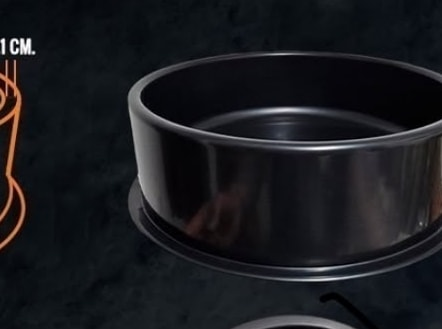
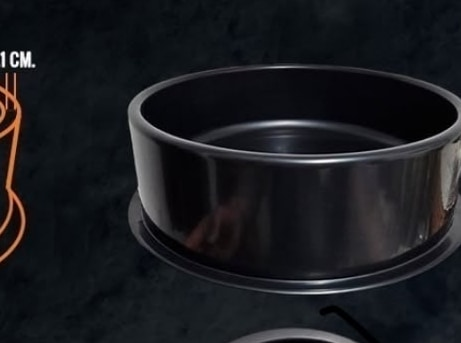
Fix medidas diagrams and video framing; advertise Andesmar nationwide shipping.
Widen ficha crops, show diagrams with object-contain, and stop clipping portrait videos. Update copy so examples are not San Luis-only.

diff --git a/src/components/tienda/MedidasMoldes.tsx b/src/components/tienda/MedidasMoldes.tsx
@@ -41,7 +41,8 @@ export function MedidasMoldes() {
         Medidas oficiales de cada molde y todas las bachas fotografiadas de ese
         modelo. Todos cuestan{" "}
         <span className="font-semibold text-deep-red">$80.000</span> en
-        cualquiera de los colores.
+        cualquiera de los colores. Envíos a toda la Argentina por Andesmar
+        Cargas.
       </p>
 
       {BACHA_SHAPES.map((shape) => {
@@ -56,7 +57,7 @@ export function MedidasMoldes() {
             key={shape.id}
             className="border-t border-navy/10 pt-10 first:border-t-0 first:pt-0"
           >
-            <div className="grid gap-8 lg:grid-cols-[minmax(0,1fr)_minmax(0,1.2fr)]">
+            <div className="space-y-8">
               <div>
                 <h2 className="font-[family-name:var(--font-outfit)] text-2xl font-semibold tracking-tight text-navy">
                   {shape.label}
@@ -70,42 +71,42 @@ export function MedidasMoldes() {
                   {dim.drain ? <li>{dim.drain}</li> : null}
                   {dim.note ? <li>{dim.note}</li> : null}
                 </ul>
+              </div>
 
-                <div
-                  className={
-                    ficha.diagram
-                      ? "mt-6 grid gap-3 sm:grid-cols-2"
-                      : "mt-6 max-w-sm"
-                  }
-                >
-                  <div className="relative aspect-[4/5] overflow-hidden bg-concrete-light">
+              <div
+                className={
+                  ficha.diagram
+                    ? "grid gap-4 lg:grid-cols-2"
+                    : "max-w-xl"
+                }
+              >
+                <div className="relative aspect-square overflow-hidden bg-concrete-light">
+                  <Image
+                    src={ficha.product}
+                    alt={`Molde ${shape.label}`}
+                    fill
+                    sizes="(max-width: 1024px) 100vw, 50vw"
+                    className="object-contain p-2"
+                  />
+                </div>
+                {ficha.diagram ? (
+                  <div className="relative min-h-[22rem] overflow-hidden bg-navy sm:min-h-[28rem]">
                     <Image
-                      src={ficha.product}
-                      alt={`Molde ${shape.label}`}
+                      src={ficha.diagram}
+                      alt={`Diagrama de medidas ${shape.label}`}
                       fill
-                      sizes="(max-width: 1024px) 50vw, 25vw"
-                      className="object-cover"
+                      sizes="(max-width: 1024px) 100vw, 50vw"
+                      className="object-contain p-3"
                     />
                   </div>
-                  {ficha.diagram ? (
-                    <div className="relative aspect-[4/5] overflow-hidden bg-navy/90">
-                      <Image
-                        src={ficha.diagram}
-                        alt={`Diagrama ${shape.label}`}
-                        fill
-                        sizes="(max-width: 1024px) 50vw, 25vw"
-                        className="object-cover"
-                      />
-                    </div>
-                  ) : null}
-                </div>
+                ) : null}
               </div>
 
               <div>
                 <p className="text-xs font-semibold uppercase tracking-[0.18em] text-navy/45">
                   Bachas {shape.label.toLowerCase()}
                 </p>
-                <div className="mt-4 grid gap-3 grid-cols-2 sm:grid-cols-3">
+                <div className="mt-4 grid grid-cols-2 gap-3 sm:grid-cols-3 lg:grid-cols-4">
                   {photos.map((photo) => (
                     <figure
                       key={photo.src}

diff --git a/src/app/inspiracion/page.tsx b/src/app/inspiracion/page.tsx
@@ -10,7 +10,7 @@ import {
 export const metadata: Metadata = {
   title: "Inspiración",
   description:
-    "Galería de bachas Prieta Concreto: estudio, clientes y videos. San Luis, Argentina.",
+    "Galería de bachas Prieta Concreto: estudio, clientes e instalaciones en todo el país.",
 };
 
 export default function InspiracionPage() {
@@ -24,8 +24,8 @@ export default function InspiracionPage() {
           Galería de bachas
         </h1>
         <p className="mt-3 text-navy/65">
-          Fotos de estudio, instalaciones de clientes y videos del taller en San
-          Luis. Solo piezas reales.
+          Fotos de estudio, instalaciones de clientes en distintas provincias y
+          videos del taller. Solo piezas reales.
         </p>
       </header>
 
@@ -111,15 +111,17 @@ export default function InspiracionPage() {
         <div className="mt-6 grid gap-4 md:grid-cols-2">
           {galleryVideos.map((item) => (
             <figure key={item.src} className="overflow-hidden bg-navy">
-              <video
-                src={item.src}
-                controls
-                playsInline
-                preload="metadata"
-                className="aspect-video w-full object-cover"
-              >
-                {item.label}
-              </video>
+              <div className="flex max-h-[70vh] items-center justify-center bg-navy">
+                <video
+                  src={item.src}
+                  controls
+                  playsInline
+                  preload="metadata"
+                  className="max-h-[70vh] w-full object-contain"
+                >
+                  {item.label}
+                </video>
+              </div>
               <figcaption className="px-4 py-3 text-sm text-cream/80">
                 {item.label}
               </figcaption>

diff --git a/src/components/home/HomeVideos.tsx b/src/components/home/HomeVideos.tsx
@@ -13,7 +13,7 @@ export function HomeVideos() {
             Videos de las bachas
           </h2>
           <p className="mt-3 text-base text-navy/65">
-            El concreto en movimiento: textura, color y oficio desde San Luis.
+            El concreto en movimiento: textura, color y oficio artesanal.
           </p>
         </div>
         <Button href="/inspiracion" variant="outline">
@@ -21,18 +21,20 @@ export function HomeVideos() {
         </Button>
       </div>
 
-      <div className="mt-10 grid gap-4 md:grid-cols-2">
+      <div className="mt-10 grid gap-6 md:grid-cols-2">
         {galleryVideos.map((item) => (
-          <figure key={item.src} className="overflow-hidden bg-navy">
-            <video
-              src={item.src}
-              controls
-              playsInline
-              preload="metadata"
-              className="aspect-video w-full object-cover"
-            >
-              {item.label}
-            </video>
+          <figure key={item.src} className="overflow-hidden bg-navy/95">
+            <div className="flex max-h-[70vh] items-center justify-center bg-navy">
+              <video
+                src={item.src}
+                controls
+                playsInline
+                preload="metadata"
+                className="max-h-[70vh] w-full object-contain"
+              >
+                {item.label}
+              </video>
+            </div>
             <figcaption className="px-4 py-3 text-sm text-cream/80">
               {item.label}
             </figcaption>

diff --git a/src/components/layout/Footer.tsx b/src/components/layout/Footer.tsx
@@ -9,7 +9,7 @@ export function Footer() {
           <PrietaLogo size="md" variant="dark" />
           <p className="mt-4 max-w-sm text-sm leading-relaxed text-cream/70">
             Estudio artesanal en San Luis. Bachas de concreto, y pronto celosías
-            y mesadas para espacios de diseño.
+            y mesadas. Envíos a toda la Argentina por Andesmar Cargas.
           </p>
         </div>
 
@@ -48,6 +48,7 @@ export function Footer() {
           </h3>
           <ul className="mt-4 space-y-2 text-sm text-cream/70">
             <li>San Luis, Argentina</li>
+            <li>Envíos a todo el país · Andesmar Cargas</li>
             <li>
               <a
                 href="mailto:hola@prietaconcreto.com"

diff --git a/src/components/home/Hero.tsx b/src/components/home/Hero.tsx
@@ -28,7 +28,7 @@ export function Hero() {
           </h1>
           <p className="animate-fade-up delay-200 mt-5 max-w-md text-base leading-relaxed text-cream/80 sm:text-lg">
             Bachas hechas a mano en San Luis. Piezas únicas — $80.000 cualquier
-            color o modelo.
+            color o modelo. Envíos a toda la Argentina.
           </p>
           <div className="animate-fade-up delay-300 mt-8">
             <Button href="/tienda" variant="primary" className="min-w-[11rem]">

diff --git a/src/app/page.tsx b/src/app/page.tsx
@@ -18,7 +18,8 @@ export default function HomePage() {
               Inspiración real, piezas reales
             </h2>
             <p className="mt-3 text-cream/70">
-              Fotos de estudio e instalaciones de clientes en San Luis.
+              Fotos de estudio e instalaciones de clientes en todo el país.
+              Envíos a toda la Argentina por Andesmar Cargas.
             </p>
             <div className="mt-8">
               <Button href="/inspiracion" variant="primary">

diff --git a/src/app/layout.tsx b/src/app/layout.tsx
@@ -22,7 +22,7 @@ export const metadata: Metadata = {
     template: "%s | Prieta Concreto",
   },
   description:
-    "Estudio artesanal en San Luis. Bachas de concreto, celosías y mesadas para baños y espacios de diseño.",
+    "Estudio artesanal en San Luis. Bachas de concreto con envíos a toda la Argentina por Andesmar Cargas.",
   openGraph: {
     title: "Prieta Concreto",
     description: "Artesanía en concreto para baños de diseño.",

diff --git a/src/components/cart/CartDrawer.tsx b/src/components/cart/CartDrawer.tsx
@@ -109,7 +109,8 @@ export function CartDrawer() {
               </span>
             </div>
             <p className="mb-3 text-xs text-navy/50">
-              Pago solo por transferencia · Envío a coordinar en San Luis
+              Pago por transferencia · Envíos a toda la Argentina (Andesmar
+              Cargas)
             </p>
             <Link
               href="/checkout"

diff --git a/src/components/checkout/CheckoutForm.tsx b/src/components/checkout/CheckoutForm.tsx
@@ -169,6 +169,9 @@ export function CheckoutForm() {
                 onChange={(e) => update("address", e.target.value)}
                 className={inputClass}
               />
+              <p className="mt-1.5 text-xs text-navy/50">
+                Envíos a toda la Argentina por Andesmar Cargas.
+              </p>
             </div>
           </div>
           <div>
